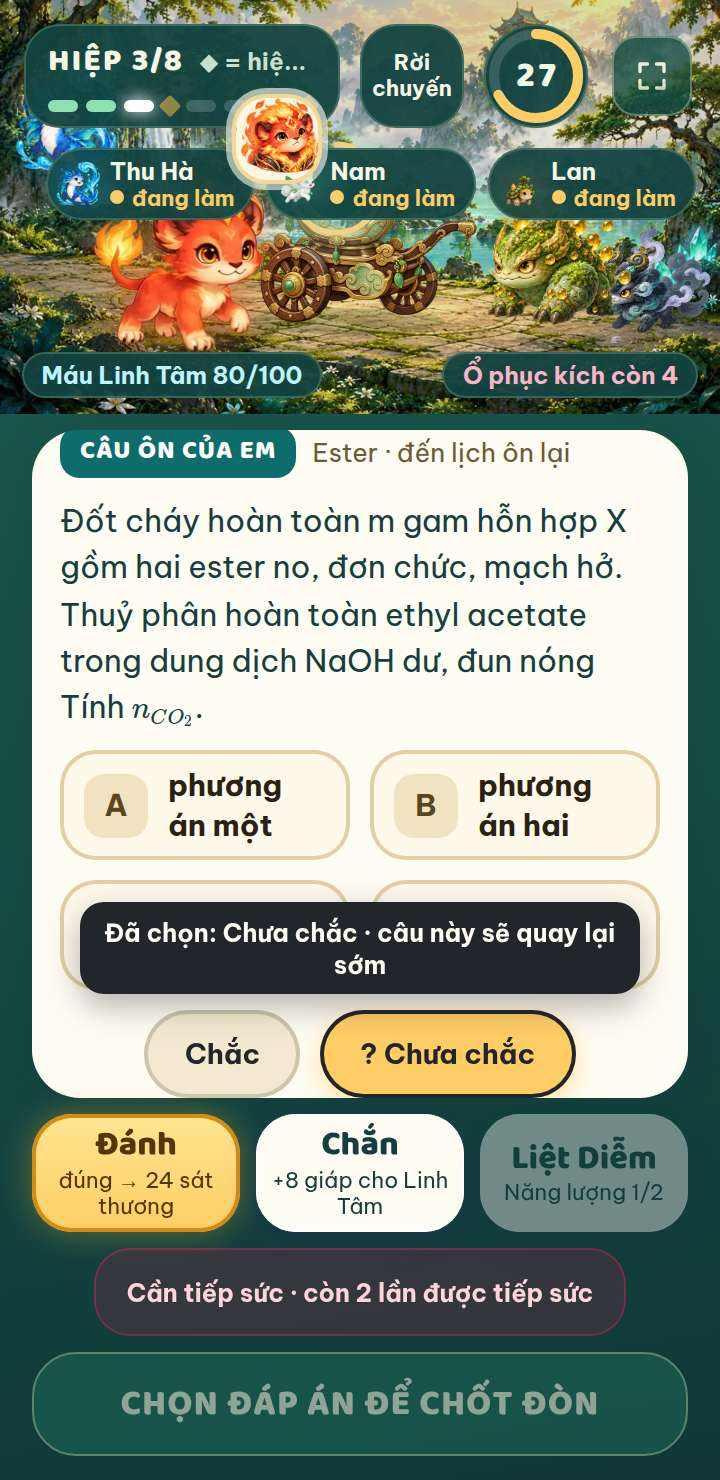
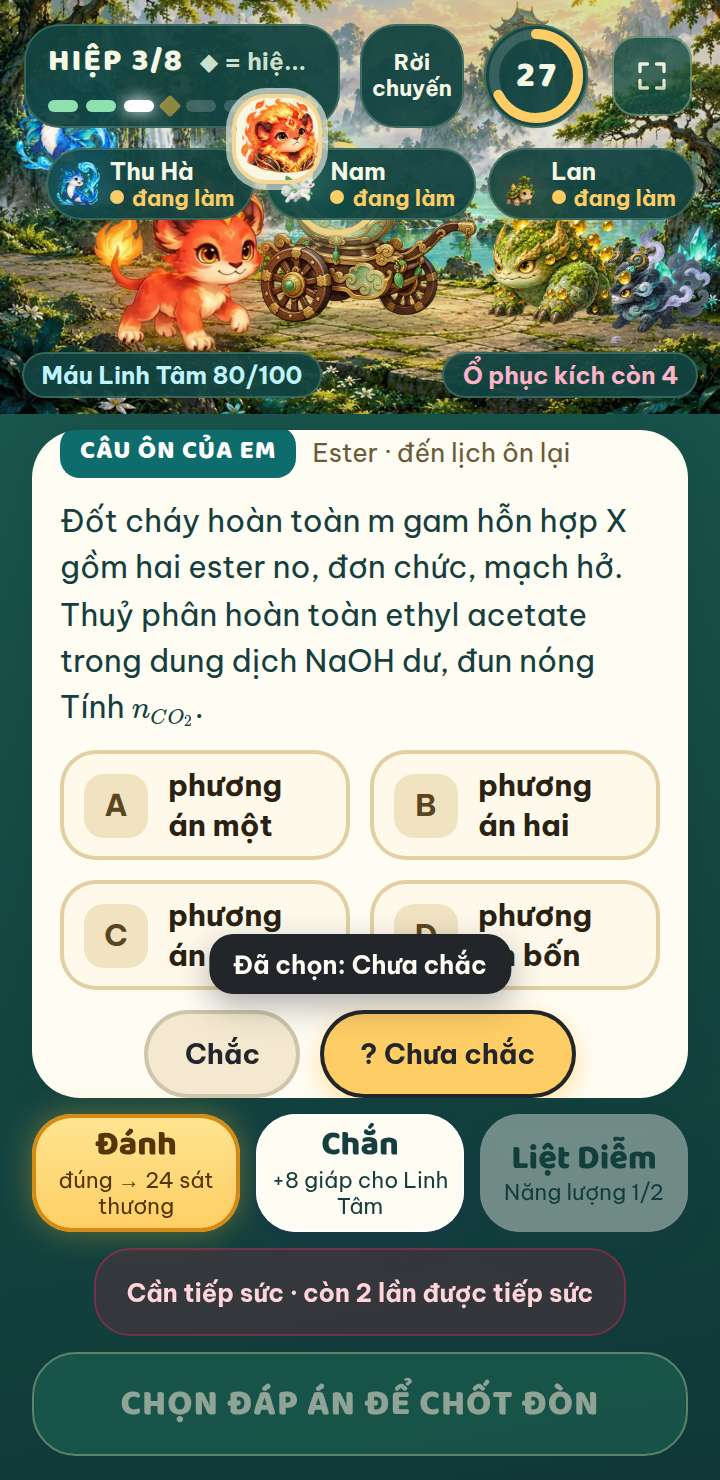
Ghi sổ OMNI 3 đợt 5 đã lên bản sống: Đoàn một người thật có Trạm hồi phục + bỏ dòng "quay lại sớm" khi chọn Chưa chắc (chỉ tài liệu)
Sổ việc (hai dòng [x] cho hai lệnh của thầy 06/10), OMNI-3-build-status.md mục 12 + 12b (bảng nghiệm thu, đẩy chung với PR #158, kiểm sống, lùi), Nhật ký DIEU-PHOI, ảnh bằng chứng Chưa chắc làm mới.

Claude-Session: https://claude.ai/code/session_01CNsQjeB4jcWjbMohw272Tz

Changed region(s): [[0.0917, 0.5905, 0.9167, 0.6838]]

diff --git a/OMNI-3-build-status.md b/OMNI-3-build-status.md
@@ -203,3 +203,43 @@ Lùi: `git revert -m 1 <commit gộp PR đợt 4>` rồi đẩy main (Actions đ
 - Tồn: (1) ba câu `DH-10-C1-B2-III-23`, `DH-10-C1-B2-III-24`, `DB-11-B2-D6-III-3` — đáp số dạng a.10ⁿ ("1,1.10²³", "1,3.10²³", "1,3.10⁻³") mà phép tính cuối của máy chỉ ra phần a nên khoá số từ chối 3 lần ⇒ việc về `truot`; cần sửa bộ kiểm khoá số cho dạng a.10ⁿ hoặc nhập hồ sơ tay; (2) 26 hồ sơ chờ duyệt có sẵn từ trước (máy đề nghị sửa chữ trong đề: 53 chỗ; 1 chỗ giữ đáp án kho `DH-12-C3-B10-II-22`) — không đổi trong lượt này.
 - Nhịp máy chủ đo sống: trong lúc chạy (12:35, 12:56) và sau khi chạy xong (10 mẫu, 13:52–13:56 giờ VN) đều HTTP 200, "tot".
 - Chạy lại sau này: lệnh trên (hàng "câu em đã sai chưa có bản khác" tự làm mới ≤ 15 phút một lần; đề mới nạp tự vào hàng). Hướng dẫn: `docs/loi-giai-a/HUONG-DAN-CHAY.md`.
+
+## 12. Đợt 5 (06/10 chiều) — Đoàn MỘT người thật có Trạm hồi phục + bỏ dòng "câu này sẽ quay lại sớm" khi chọn Chưa chắc: nghiệm thu bản sạch `83525bc0` (+ test đầu-cuối `d7cd2940`, hợp đồng `ea9cf4c8`)
+
+Lệnh thầy: "Khi chọn chưa chắc bỏ dòng gợi ý câu này sẽ quay lại sớm"; "Làm sai 3 câu liên tiếp có cho vào trạm hồi phục không? Tôi làm thử chiến dịch sai 3 câu liên tiếp trong đoàn không thấy về trạm hồi phục". Gốc `main` 0f50359f. Không đổi schema, không đụng dữ liệu.
+
+**Trả lời thầy:** Trạm hồi phục là của chuyến Đảo VÀ chặng Đoàn chơi MỘT mình (đặc tả gốc: "Đoàn nhiều người không có trạm: đồng hồ hiệp chung"). Gốc lỗi: `phienMoTram` (omni-game.ts) loại MỌI phiên Đoàn, kể cả Đoàn một mình ⇒ thầy thử trong Đoàn không bao giờ thấy. Nay: Đoàn một người thật có Trạm; Đoàn nhiều người vẫn không (có chủ ý, theo đặc tả).
+
+Cách mở (giống Đảo, trừ hai chỗ nói ở dưới): 3 câu SAI TỰ LÀM liền trong một chặng · câu ĐÚNG hoặc câu có tiếp sức/gợi ý cắt chuỗi · câu sai quá nhanh bị tính "lướt" (tối đa 3 lượt/ngày, ngưỡng < max(3 giây, 10 % thời gian kỳ vọng) kẹp [3, 8] giây) thì BỎ QUA, không tính và không cắt · tối đa 1 Trạm/chặng · cần OMNI bật cho em. Khác Đảo: (1) Đoàn chỉ mở khi CÓ 3 câu nền (ải kế đã chia sẵn cho cả đội nên không đổi được bằng câu dễ hơn — không gọi `hoa2-omni-tram-xong`); không có ⇒ không mở và không đánh dấu phiên; (2) thẻ nằm dưới kết quả câu thứ ba, nút "Làm 3 câu nền" mở hộp "Luyện kiến thức nền" của thang tự gỡ (`/hs/luyen-nen`). Máu Linh Tâm không đổi.
+
+| Kiểm | Lệnh | Kết quả | Đạt |
+|---|---|---|---|
+| Tái hiện lỗi thầy gặp | `tests/omni-3-doan-tram-may-chu-0610.test.ts` (Worker thật + D1 thật, Hoá 2.0 + OMNI bật; `doan-mo → doan-xem → doan-nop`) chạy trên bản ĐANG CHẠY main 0f50359f | ĐỎ 2/2: "câu sai thứ ba liền phải có Trạm: expected undefined to be truthy" | Tái hiện đúng |
+| Cùng lệnh sau sửa | như trên trên 83525bc0 | XANH 2/2 (Trạm ở câu thứ ba; hai câu đầu không; sau Trạm không có Trạm thứ hai; phiên `tram:1`; thẻ Trạm không mang đáp án; câu đúng giữa chừng cắt chuỗi; chặng thật có hiệp 4 là Trùm — hiệp không có câu riêng của em — test đi qua nó bằng `doan-tiep`) | Đạt |
+| Test mới khác | `omni-3-tra-loi` (+4 ca Đoàn: một mình mở / luật chuỗi / không câu nền / cờ giả bị từ chối) · `omni-3-doan-tram-0610` (thẻ, vắng ⇒ không thẻ, `coCauNen` false, OMNI tắt, CSS không màu thô, hộp nằm trên lớp phủ Đoàn) | 23/23 · 6/6 | Đạt |
+| vitest toàn bộ (bản sạch 83525bc0) | `npx vitest run --reporter=json` → so TÊN với nền đợt 3 (`final2-do.s2`) và hai nền khác | 14 414 test (+10 mới) · 141 đỏ / 61 tệp + 9 tệp lỗi nạp = 150 tên, TRÙNG KHÍT tập nền đợt 3; 0 tên mới; hai test chập chờn đã sửa ở đợt 4 nay xanh | Đạt |
+| Kiểu | `tsc -b` · `tsc -p server/tsconfig.json --noEmit` · test mới qua `tsc --strict` | 0 lỗi · 0 lỗi · 0 lỗi | Đạt |
+| Build + service worker | `npm run build` (đồng hồ + mã phiên bản ghim) · `kiem:sw` | 517 tệp dist · 13/13 | Đạt |
+| Màu | `check:mau` · `kiem:mau-giu` (so origin/main) | sạch · 7 tệp src/ đổi, 0 vi phạm (thẻ Trạm chỉ dùng biến `--the-2`, `--vien-dam`, `--muc` có sẵn) | Đạt |
+| Lộ đáp án | `kiem:lo-dap-an` | 9/9 | Đạt |
+| Cổng điểm ảnh, OMNI tắt (9 màn) | `do-app-hs.mjs --kich=anh` vs `anh-cuoi` + `so-anh.mjs` | 9/9 trùng khít (0 điểm ảnh lệch) | Đạt |
+| Cổng điểm ảnh, OMNI bật + Chắc/Chưa chắc (11 ảnh) | `--omni=1 --them=chac` vs `anh-chac` | 10/11 trùng khít; khác DUY NHẤT ảnh `7b-doan-chua-chac` (64 085 điểm ảnh, vùng x 52–667, y 886–1033 = bóng báo "Đã chọn: Chưa chắc" ngắn lại do bỏ vế "câu này sẽ quay lại sớm") — đổi chữ có chủ ý theo lệnh thầy; nền so ảnh đã cập nhật | Đạt |
+| Ảnh thật 360 px | `scripts/chup-omni-3` cảnh `doan-tram` (lỗi trang 0, tràn ngang 0) | `docs/omni-0510/anh-build/hs-doan-tram-*`: thẻ đọc rõ trên thẻ giấy; hộp câu nền nằm TRÊN lớp phủ Đoàn | Đạt |
+| Worker đóng gói | `wrangler deploy --dry-run` | thành công: 3 260,37 KiB, nén 849,07 KiB (đợt 4 đã lên: 3 259,56 / 848,90) | Đạt |
+| Kiểm ca thi mở (chỉ đọc) | workflow `kiem-ca-mo` run 37431714583 (14:46 giờ VN) | so_ca_mo = 0 · so_luot_dang_lam = 0 | Đạt |
+
+Việc của đợt: máy chủ `server/src/omni-game.ts` (`phienMoTram(phien, doanMotMinh)`, `docTruocOmni`, `xetOmniTraLoi` + cổng "Đoàn phải có câu nền"), `game-v2.ts` (chỉ tin cờ `motMinh` khi là lệnh NỘI BỘ của Đoàn), `game-v2-doan.ts` (`doan-nop` đặt `motMinh: choEmMotMinh(phong)`); máy em `doan2/TheTram2.tsx` (mới), `DoanCau.tsx`, `DoanHoTong.tsx`, `doan-kieu.ts`, `doan2/doan2.css`; chữ `omni-chu.ts` (`BONG_CHUA_CHAC` = "Đã chọn: Chưa chắc", `NUT_LAM_CAU_NEN` dùng chung); hợp đồng `docs/hop-dong-omni-3.md`; bảng chuẩn từ ngữ.
+
+Còn nguyên (nói thẳng): (1) dòng KẾT QUẢ sau khi nộp ĐÚNG mà em đã chọn Chưa chắc vẫn là "Đúng. Em chọn "Chưa chắc" nên câu này sẽ quay lại sớm cho chắc hẳn." (`CHU_DUNG_CHUA_CHAC`) — chữ khác, lúc khác, thầy chưa nói bỏ; (2) Trạm ở Đoàn chưa thử trên em thật (không dùng mật khẩu em) — đã chứng minh bằng test đầu-cuối trên Worker thật + D1 thật và ảnh trình duyệt thật, cần thầy hoặc một em thử lại cảnh "chặng Đoàn một mình, sai 3 câu liền" (chú ý: bấm sai quá nhanh sẽ thành "lướt" và không tính).
+
+Lùi: `git revert -m 1 <commit gộp PR #157>` rồi đẩy main (Actions đẩy lại Pages + Worker). Không có công tắc riêng cho Trạm ở Đoàn — tắt cả Trạm bằng Cài đặt OMNI (OMNI tắt ⇒ y hệt cũ). Bản Worker trước đợt này `25850a01-f721-4029-bed5-6db8d43342bb`.
+
+### 12b. Đã lên bản sống (06/10)
+
+- ĐÃ LÊN 06/10 15:10 giờ VN (08:10 UTC): Actions run 37432674474 trên main `efc515c8` thành công (check:mau · npm test · build · Pages · Worker; 15 phút 50 giây). Pages `3873f698`; Worker `372416ea-f5a8-4efc-b7f6-89d786395b34` (khởi động 24 ms; tải lên 3 259,88 KiB / nén 849,03 KiB).
+- LƯU Ý đẩy chung: PR #157 gộp lúc 14:46 giờ VN (main `076687ba`) và có run đẩy riêng 37431811558; run ấy bị HUỶ lúc 14:56 vì phiên khác gộp PR #158 (`claude/tong-hop-0610`, main `efc515c8`) — workflow huỷ run cũ khi có đẩy mới. Run 37432674474 vì thế đẩy CẢ HAI cùng lúc: mã của đợt này + toàn bộ nội dung PR #158 (66 tệp: lời giải chuẩn, thú/quái giữa đường, bản nguyên tố, chiếu mã…; phiên đó chịu trách nhiệm về phần của họ, đợt này không kiểm riêng phần ấy). Mã của đợt này nguyên vẹn trên main (`doanMotMinh`, `TheTram2.tsx`, `BONG_CHUA_CHAC` đều có); ảnh `doan-tram` chụp lại trên main `efc515c8` vẫn đúng (thẻ đọc rõ, hộp câu nền nằm trên lớp phủ Đoàn).
+- Ca thi mở kiểm hai lần: 14:46 giờ VN (run 37431714583, main 0f50359f) và LẠI 14:56 ngay sau khi run kia bị huỷ (run 37432839389, main efc515c8) — cả hai so_ca_mo = 0, so_luot_dang_lam = 0; run đẩy kết thúc 15:10.
+- Kiểm sống không cần mật khẩu em (15:11 giờ VN): POST `/hs/ca-dang-mo` HTTP 200, `nhipDeNghi.muc` = "tot"; POST `/gv/buoi-hoc`, `/gv/omni/cai-dat` không mã ⇒ 403 "Sai mã bí mật". Gói Pages sống KHÔNG kiểm trực tiếp được (máy chủ trung gian của phiên chặn pages.dev) — đã kiểm gói dựng sạch cùng mã: có "Làm 3 câu nền" (Dao2, DoanHoTong, omni-chu), có "Đã chọn: Chưa chắc", không còn "Chưa chắc · câu này sẽ quay lại sớm".
+- Nhịp máy chủ sau đẩy: 20 mẫu trong 5 phút (15 giây một mẫu, 15:12–15:17 giờ VN): 20/20 HTTP 200, 20/20 "tot".
+- CHƯA kiểm được từ phiên đám mây (không thử mật khẩu em): Trạm ở Đoàn trên em thật — cần thầy hoặc một em thử cảnh "chặng Đoàn một mình, sai 3 câu liền" (đừng bấm quá nhanh: sai nhanh = "lướt", không tính). Công tắc khẩn: OMNI ở Cài đặt OMNI (tắt cả Trạm); không có công tắc riêng cho Trạm ở Đoàn.
+- Lùi: `git revert -m 1 076687ba` rồi đẩy main (có thể xung đột nhẹ ở `doan2.css` / `DoanHoTong.tsx` với PR #158 — giải tay, giữ phần của #158); Worker trước lượt đẩy này `25850a01-f721-4029-bed5-6db8d43342bb`.

diff --git a/SO-VIEC-OMNI-3.md b/SO-VIEC-OMNI-3.md
@@ -196,3 +196,7 @@ Mở 05/10/2026. Đặc tả: `DAC-TA-BUILD-OMNI-3-0510.md` (thắng mọi tệp
 - [x] (tự phát sinh) hai test chập chờn mới thấy ở lượt toàn bộ thứ hai — ĐÃ SỬA (chỉ test, không đẩy lại app) | bằng chứng: commit 623f1dc7 — `bi-a-mat-than-tra-loi` "Sảnh có công tắc": nguyên nhân gốc `useSyncExternalStore` đăng ký nghe kho trong effect thụ động, bấm sát lúc Sảnh vừa vẽ thì kho đã ghi "bật" (dò: `bo = true`, cùng nút, còn trong trang) nhưng lần vẽ lại của công tắc đến sau một nhịp ⇒ test đọc `checked` ngay thì đỏ (cả trên bản đang chạy); sửa: chờ `checked` bằng `waitFor`. `chien-dich-giao` "bấm nút chính ⇒ `tao`": `waitFor` mặc định 1 000 ms hết giờ khi máy tải ⇒ `asyncUtilTimeout` 6 s như các test nặng khác. Hai tệp chạy cùng nhau dưới 4 lò đốt CPU: 12/12 lượt xanh (trước sửa đỏ 1/6 và 1/4 lượt).
 - [ ] "Chạy máy soạn đề đẩy kho" (thầy 06/10 ~12:20 giờ VN, sau báo cáo đợt 4 nói kho ý Đúng–Sai còn rỗng) ⇒ chạy `node scripts/loi-giai/may-soan.mjs` (hồ sơ lời giải + học liệu thêm: bản khác / ý Đ–S) trên phiên đám mây — mã bí mật có sẵn trong biến môi trường của phiên (KHÔNG in ra, KHÔNG truyền cho phiên soạn con), máy chủ kiểm lần nữa với đáp án KHO rồi mới lưu; trước khi nộp kiểm lại ca thi mở; đo hàng việc (`--tong`) + thử 1 lô không nộp (`--thu`) trước, rồi chạy thật có theo dõi | bằng chứng: (chưa có)
 - [x] "Chạy máy soạn đề đẩy kho" (thầy 06/10 ~12:20 giờ VN) | bằng chứng: `node scripts/loi-giai/may-soan.mjs --mot-lan --lop tat-ca` chạy trên phiên đám mây 12:27–13:50 giờ VN (05:26:56–06:49:55 UTC; 4 luồng, 12 câu/lô; thư mục làm việc ngoài repo; mã bí mật chỉ đọc từ biến môi trường của phiên, không in, không truyền cho phiên soạn con). Trước khi chạy: kiểm ca thi mở 12:24 giờ VN (run 37418298485) = 0 ca mở / 0 lượt đang làm; đo hàng việc `--tong`; thử 1 lô không nộp `--thu` (3 câu, 102 giây) rồi soát tay mẫu mới chạy thật. KẾT QUẢ (57 lô nộp thật; 62,7 triệu token tính cả đọc bộ nhớ đệm; 284 phút máy cộng dồn 4 luồng; không lần nào phiên soạn dừng lỗi): hồ sơ lời giải ĐẠT 91 · TRƯỢT 9 (3 câu × 3 lần: `DH-10-C1-B2-III-23`, `DH-10-C1-B2-III-24`, `DB-11-B2-D6-III-3` — "KHOÁ SỐ: phép tính cuối ra 1.1 ≠ đáp số 1,1.10²³": đáp số dạng a.10ⁿ mà phép tính cuối của máy chỉ ra phần a ⇒ máy chủ không lưu, việc về `truot`, KHÔNG có hồ sơ sai nào lọt vào kho; cần sửa bộ kiểm khoá số cho dạng a.10ⁿ hoặc nhập hồ sơ tay); HỌC LIỆU THÊM: 498 câu nộp, 0 lỗi — bản khác lưu 1 188 / 1 226 đề xuất (96,9 %), ý Đúng–Sai lưu 1 381 / 1 387 (99,6 %); mọi mục qua hai lượt độc lập (soạn + kiểm mù) rồi máy chủ kiểm lần nữa trước khi nối vào `cau_bo_tro` / `cau_y_ds` (chỉ-thêm, không sửa / xoá gì đã có). Hàng việc trước → sau: hồ sơ chờ 96 → 0; hồ sơ đã duyệt 7 049 → 7 140 (+91); học liệu xong 0 → 391 (1 trượt); việc trượt 18 → 21 (đúng ba câu trên). Cờ đáp án tự xử: khớp 0, nghi 0 (không câu nào bị đưa vào diện nghi). SOÁT MẪU của tôi (không phải toàn bộ): 14 ý Đ–S ngẫu nhiên (mỗi chương ≤ 2) + 8 bản khác tính toán (mỗi chương một, tính lại bằng tay) = 22/22 đúng hoá học phổ thông; riêng ý 1 của ESTER (chiều chảy của hơi ngưng) phụ thuộc hình vẽ, tôi không kiểm được; ở lô thử (không nộp) có 1 bản khác lý thuyết đối chất mà hai phương án cùng "không thể" ⇒ lý thuyết có thể mơ hồ — nên thầy chữa theo câu em sai như thường lệ. Nhịp máy chủ đo sống: trong lúc chạy (12:35 và 12:56 giờ VN) và sau khi chạy xong (10 mẫu, 13:52–13:56 giờ VN) đều HTTP 200, "tot", không mẫu nào "ban". TỒN (có sẵn từ trước, không đổi): 26 hồ sơ chờ duyệt vì máy đề nghị sửa chữ trong đề (53 chỗ) + 1 chỗ giữ đáp án kho `DH-12-C3-B10-II-22`. Nhật ký lô: thư mục nháp của phiên (không đưa vào repo).
+- [ ] "Khi chọn chưa chắc bỏ dòng gợi ý câu này sẽ quay lại sớm" (thầy 06/10 ~14:00 giờ VN) ⇒ bỏ chữ "· câu này sẽ quay lại sớm" khỏi dòng báo lúc chọn "Chưa chắc" (`BONG_CHUA_CHAC` trong `src/lib/omni-chu.ts`: bóng ở Đoàn + dòng nhỏ ở Đảo), giữ phản hồi "Đã chọn: Chưa chắc" | bằng chứng: (chưa có)
+- [ ] "Làm sai 3 câu liên tiếp có cho vào trạm hồi phục không? Tôi làm thử chiến dịch sai 3 câu liên tiếp trong đoàn không thấy về trạm hồi phục" (thầy 06/10 ~14:00 giờ VN) ⇒ trả lời đúng + sửa nếu lệch đặc tả: mã `phienMoTram` (server/src/omni-game.ts) CHỈ mở Trạm ở chuyến Đảo, loại mọi phiên Đoàn kể cả Đoàn một mình; đặc tả gốc của thầy (`prompt-tick-bai-tu-giao.md` mục 4, `DE-XUAT-KET-HOP-ALCHEMY-OMNI-0510.md` E1): "chuyến Đảo hoặc chặng Đoàn CHƠI MỘT MÌNH" có Trạm, Đoàn nhiều người không | bằng chứng: (chưa có)
+- [x] "Khi chọn chưa chắc bỏ dòng gợi ý câu này sẽ quay lại sớm" (thầy 06/10 ~14:00 giờ VN) — ĐÃ LÊN | bằng chứng: commit 83525bc0 (PR #157 → main 076687ba; lên bản sống cùng run Actions 37432674474, 15:10 giờ VN) — `BONG_CHUA_CHAC` = "Đã chọn: Chưa chắc" (Đoàn: bóng ~2 giây cạnh nút Chắc / Chưa chắc; Đảo: dòng nhỏ dưới công tắc); gói dựng có chuỗi mới, không còn chuỗi cũ; cổng điểm ảnh OMNI tắt 9/9 trùng khít, OMNI bật 10/11 trùng khít và khác DUY NHẤT ảnh "Đoàn · Chưa chắc" đúng vùng bóng báo (đổi chữ có chủ ý); ảnh bằng chứng `docs/omni-0510/anh-build/hs-doan-chac-2-chua-chac-bong-bao-360.jpg` làm mới. GIỮ NGUYÊN: dòng KẾT QUẢ sau khi nộp ĐÚNG mà em đã chọn Chưa chắc ("Đúng. Em chọn "Chưa chắc" nên câu này sẽ quay lại sớm cho chắc hẳn." — `CHU_DUNG_CHUA_CHAC`): chữ khác, lúc khác, thầy chưa nói bỏ ⇒ hỏi thầy có bỏ nốt không.
+- [x] "Làm sai 3 câu liên tiếp có cho vào trạm hồi phục không? Tôi làm thử chiến dịch sai 3 câu liên tiếp trong đoàn không thấy về trạm hồi phục" (thầy 06/10 ~14:00 giờ VN) — ĐÃ LÊN | bằng chứng: TRẢ LỜI thầy: CÓ — chuyến Đảo (đã có từ trước) và chặng Đoàn chơi MỘT mình (mới); Đoàn nhiều người không (đúng đặc tả). Gốc lỗi thầy gặp: `phienMoTram` (omni-game.ts) loại MỌI phiên Đoàn kể cả Đoàn một mình — lệch đặc tả gốc. Sửa: commit 83525bc0 (máy chủ `motMinh` + thẻ `TheTram2` + chữ) · d7cd2940 (test đầu-cuối) · ea9cf4c8 (hợp đồng); PR #157 → main 076687ba. Tái hiện + sửa bằng CÙNG MỘT lệnh: `tests/omni-3-doan-tram-may-chu-0610.test.ts` (Worker thật + D1 thật, Hoá 2.0 + OMNI bật) ĐỎ 2/2 trên main 0f50359f ("câu sai thứ ba liền phải có Trạm: expected undefined to be truthy") → XANH 2/2 sau sửa. Test khác: `omni-3-tra-loi` 23/23 (+4 ca Đoàn), `omni-3-doan-tram-0610` 6/6. vitest toàn bộ trên bản sạch 83525bc0: 14 414 test, 150 tên đỏ = ĐÚNG tập nền đợt 3, 0 tên mới (hai test chập chờn đã sửa nay xanh). `tsc -b` + `tsc -p server` 0 lỗi; `npm run build` + `kiem:sw` 13/13; `kiem:lo-dap-an` 9/9; `check:mau` sạch; `kiem:mau-giu` 0 vi phạm; ảnh thật 360 px `docs/omni-0510/anh-build/hs-doan-tram-*`. Ca thi mở = 0 (14:46 và 14:56 giờ VN; runs 37431714583, 37432839389). Lên bản sống 15:10 giờ VN: Actions run 37432674474 (main efc515c8) thành công; run riêng của PR #157 (37431811558) bị HUỶ vì phiên khác gộp PR #158 (`tong-hop-0610`) ngay sau ⇒ MỘT lượt đẩy mang CẢ HAI (phần PR #158 do phiên kia chịu trách nhiệm). Pages `3873f698`; Worker `372416ea-f5a8-4efc-b7f6-89d786395b34` (khởi động 24 ms). Kiểm sống: POST /hs/ca-dang-mo HTTP 200 "tot", /gv/* 403; nhịp 20 mẫu/5 phút 20/20 "tot". CHƯA kiểm trên em thật. Lùi: `git revert -m 1 076687ba`.

diff --git a/DIEU-PHOI.md b/DIEU-PHOI.md
@@ -622,3 +622,5 @@ Phân vùng dự kiến theo hai bản thiết kế:
 - 06/10 11:55 (VN) · Claude (phiên OMNI 3) · ĐÃ PHÁT HÀNH đợt 4 `02bd30bc` (PR #154; nguồn nghiệm thu 13bd7724): Actions 37413831815 SUCCESS (check:mau · npm test · build · Pages · Worker); Pages `4cd12e66`, Worker `25850a01-f721-4029-bed5-6db8d43342bb` (khởi động 21 ms). Ca thi mở = 0 ngay trước khi gộp (run 37413770362, 11:27 giờ VN). Kiểm sống: /hs/ca-dang-mo 200 nhịp "tot", /gv/* không mã 403; nhịp 20 mẫu/10 phút: 19 "tot" + 1 "ban" thoáng qua. Có trong đợt: chẩn đoán bước sai (công tắc `cau_hinh.chan_doan_buoc_sai`), Trạm theo bước tự khai, xoay vòng song sinh, ghim phiên bản ~bt, gọn mã (gỡ 76 export chết), chip "Đã dạy" + ô "Giao cho", nút Chắc/Chưa chắc. Chưa kiểm trên em thật. Lùi: `git revert -m 1 02bd30bc`; Worker trước: 1e17cf25-3045-41c5-a3e1-f53d0f9dec0a. Chi tiết OMNI-3-build-status.md mục 11b. Việc còn chờ thầy: ôn bài cũ (a)(b)(c), xoá 105 tệp chỉ-test (24.112 dòng), chạy máy soạn kho ý Đ–S, ngưỡng chứng chỉ 8+.
 
 - 06/10 13:55 (VN) · Claude (phiên OMNI 3) · CHẠY MÁY SOẠN ĐẨY KHO (lệnh thầy "Chạy máy soạn đề đẩy kho"): `may-soan.mjs --mot-lan --lop tat-ca` trên phiên đám mây 12:27–13:50, 57 lô nộp thật, ca thi mở = 0 trước khi chạy (run 37418298485). Hồ sơ lời giải +91 (trượt 3 câu số khoa học a.10ⁿ do khoá số), học liệu thêm 498 câu: bản khác +1 188, ý Đ–S +1 381 (kho ý từ rỗng ⇒ có dữ liệu cho chẩn đoán bước sai), 0 lỗi, nhịp máy chủ "tot". Không đổi mã, không deploy. Soát mẫu 22/22 đúng. Tồn: 26 hồ sơ chờ duyệt (sửa chữ trong đề) có sẵn từ trước. Chi tiết OMNI-3-build-status.md mục 11c.
+
+- 06/10 15:20 (VN) · Claude (phiên OMNI 3) · ĐÃ PHÁT HÀNH đợt 5 (PR #157 → main `076687ba`; nguồn nghiệm thu bản sạch 83525bc0): Đoàn MỘT người thật có Trạm hồi phục (thầy: "sai 3 câu liên tiếp trong đoàn không thấy về trạm hồi phục" — gốc: `phienMoTram` loại mọi phiên Đoàn, lệch đặc tả "Đoàn một mình có Trạm, Đoàn nhiều người không") + bỏ dòng "câu này sẽ quay lại sớm" khi chọn Chưa chắc. Tái hiện bằng test đầu-cuối Worker thật + D1 thật: ĐỎ 2/2 trên main 0f50359f → XANH 2/2 sau sửa. vitest toàn bộ 14 414 test: 150 tên đỏ = đúng nền đợt 3, 0 tên mới; tsc / build / kiem:sw 13/13 / lộ đáp án 9/9 / màu 0; điểm ảnh OMNI tắt 9/9 trùng, bật 10/11 (khác duy nhất bóng "Chưa chắc", có chủ ý). Ca thi mở = 0 (14:46, 14:56). Lên bản sống 15:10 qua Actions run 37432674474 (main efc515c8; Pages `3873f698`, Worker `372416ea-f5a8-4efc-b7f6-89d786395b34`, khởi động 24 ms); run riêng của PR #157 (37431811558) bị HUỶ vì phiên khác gộp PR #158 (`tong-hop-0610`) ngay sau ⇒ một lượt đẩy mang cả hai (nội dung PR #158 do phiên đó chịu trách nhiệm). Nhịp 20 mẫu/5 phút: 20/20 HTTP 200 "tot". Lùi: `git revert -m 1 076687ba` (có thể xung đột nhẹ `doan2.css` / `DoanHoTong.tsx` với #158). Chưa thử trên em thật.
